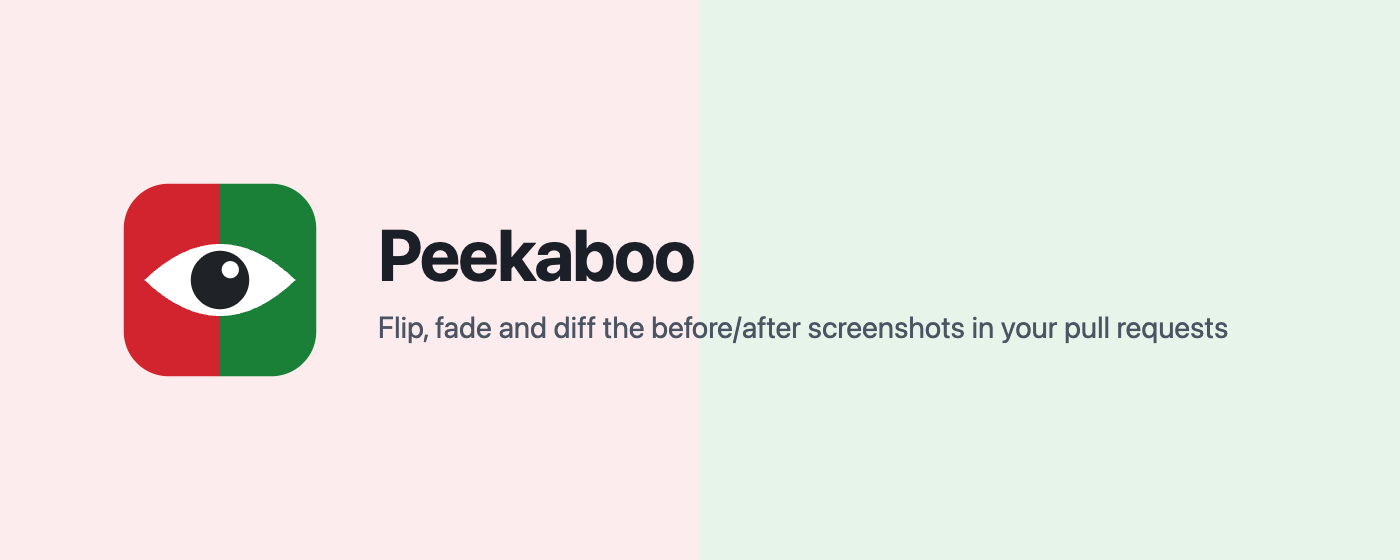
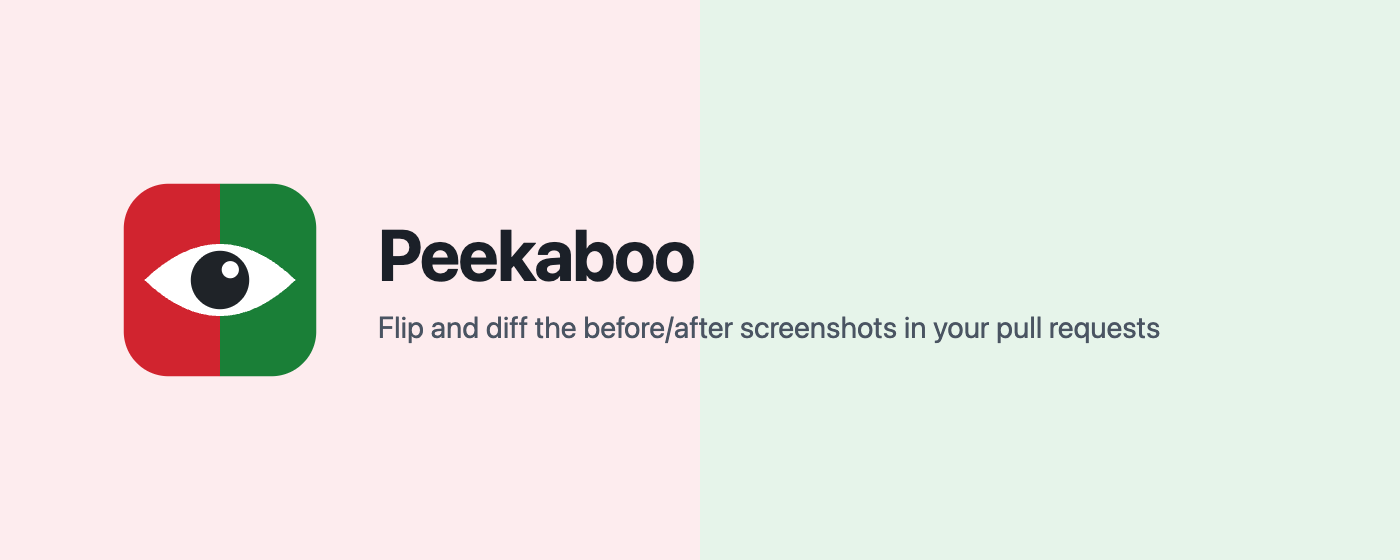
Drop Fade, fix Side by side on pages without a [hidden] reset, new demo
Fade was a slower Flip; with it gone there are two modes plus GitHub's own table,
and full-screen keys are 1-2. Videos, which Diff can't compare, now stay in Flip.

Side by side relied on GitHub's global [hidden] { display: none !important } to hide
the comparison view; our own display: flex beat the attribute anywhere that reset
is missing, so both the view and the table showed. Scope the reset to our widget.

The demo now starts on GitHub's side-by-side table, clicks Flip with a visible
cursor, flips a few times and ends on Diff, recorded frame by frame at 2x so it stays
readable when scaled down on a phone. Also types cloneMedia's diff-part side, which
strict tsc rejected. Version 1.2.0.

Changed region(s): [[0.3071, 0.5464, 0.8907, 0.6071]]

diff --git a/src/content.ts b/src/content.ts
@@ -6,14 +6,13 @@
 // Tables are found by header text:
 // | Before | After | (optionally with a label column such as | Viewport | Before | After |).
 
-type Mode = "table" | "flip" | "fade" | "diff";
+type Mode = "table" | "flip" | "diff";
 
 type Pair = { label: string; before: HTMLImageElement | HTMLVideoElement; after: HTMLImageElement | HTMLVideoElement };
 
 const MODES: { mode: Mode; label: string; hint: string }[] = [
   { mode: "table", label: "Side by side", hint: "GitHub's own table" },
   { mode: "flip", label: "Flip", hint: "Click or press Space to blink between before and after" },
-  { mode: "fade", label: "Fade", hint: "Cross-fade: drag the range, or ← → when focused" },
   { mode: "diff", label: "Diff", hint: "Unchanged pixels fade out; red was darker before, green is darker after" },
 ];
 const DEFAULT_MODE: Mode = "flip";
@@ -44,7 +43,7 @@ function main() {
   };
   // GitHub re-renders comment bodies on navigation, edits and previews, so we re-scan on DOM changes.
   new MutationObserver(scheduleSync).observe(document.body, { childList: true, subtree: true });
-  // Capture phase, so ← → step between pairs before a focused Fade frame nudges its blend.
+  // Capture phase, so full-screen keys win over anything focused on the page.
   document.addEventListener("keydown", handleViewerKeys, true);
   scheduleSync();
 }
@@ -153,14 +152,6 @@ function buildStage(pair: Pair) {
   frame.append(after, before, diff, beforeTag, afterTag);
   const canDiff = pair.before instanceof HTMLImageElement && pair.after instanceof HTMLImageElement;
 
-  const range = el("input", `${PREFIX}-range`);
-  range.type = "range";
-  range.min = "0";
-  range.max = "100";
-  range.setAttribute("aria-label", "Before ↔ After");
-
-  // On the image rather than under it, so Fade is the same height as the other modes.
-  frame.append(range);
   root.append(frame);
   if (pair.label) {
     const caption = el("figcaption", `${PREFIX}-label`);
@@ -170,16 +161,12 @@ function buildStage(pair: Pair) {
   setNaturalSize(frame, pair.after);
 
   let mode: Mode = DEFAULT_MODE;
-  // Position is "how much of Before shows": 0 = all After, 100 = all Before.
-  let position = 50;
   let showingBefore = true;
 
   function render() {
-    // Blend modes over video need every copy in step; a still-frame diff would mislead, so videos fade instead.
-    const shown = mode === "diff" && !canDiff ? "fade" : mode;
+    // Blend modes over video need every copy in step; a still-frame diff would mislead, so videos flip instead.
+    const shown = mode === "diff" && !canDiff ? "flip" : mode;
     frame.dataset.mode = shown;
-    range.value = String(position);
-    range.hidden = shown !== "fade";
     beforeTag.textContent = shown === "diff" ? "Before only" : "Before";
     afterTag.textContent = shown === "diff" ? "After only" : "After";
     // Both share one grid cell sized to the taller image, so a taller After would peek out below a flipped-in Before.
@@ -187,36 +174,23 @@ function buildStage(pair: Pair) {
     if (shown === "diff") {
       if (!diff.hasChildNodes()) diff.append(...buildDiffLayers(pair.before, pair.after));
       before.style.opacity = "0";
-    } else if (shown === "fade") {
-      before.style.opacity = String(position / 100);
     } else if (shown === "flip") {
       before.style.opacity = showingBefore ? "1" : "0";
       frame.dataset.showing = showingBefore ? "before" : "after";
     }
   }
 
-  function setPosition(next: number) {
-    position = Math.min(100, Math.max(0, next));
-    render();
-  }
-
-  frame.addEventListener("pointerdown", (event) => {
-    if (mode !== "flip" || event.target === range) return;
+  frame.addEventListener("pointerdown", () => {
+    if (frame.dataset.mode !== "flip") return;
     showingBefore = !showingBefore;
     render();
   });
   frame.addEventListener("keydown", (event) => {
-    if (mode === "flip" && (event.key === " " || event.key === "Enter")) {
-      event.preventDefault();
-      showingBefore = !showingBefore;
-      render();
-    } else if (mode === "fade" && (event.key === "ArrowLeft" || event.key === "ArrowRight")) {
-      event.preventDefault();
-      const step = event.shiftKey ? 1 : 5;
-      setPosition(position + (event.key === "ArrowRight" ? step : -step));
-    }
+    if (frame.dataset.mode !== "flip" || (event.key !== " " && event.key !== "Enter")) return;
+    event.preventDefault();
+    showingBefore = !showingBefore;
+    render();
   });
-  range.addEventListener("input", () => setPosition(Number(range.value)));
 
   return {
     root,
@@ -275,7 +249,7 @@ function ensureDiffFilters() {
 }
 
 // Both sides scale to the same width so screenshots taken at the same viewport line up pixel for pixel.
-function cloneMedia(source: HTMLImageElement | HTMLVideoElement, side: "before" | "after") {
+function cloneMedia(source: HTMLImageElement | HTMLVideoElement, side: "before" | "after" | "diff-part") {
   const media = source.cloneNode(true) as HTMLImageElement | HTMLVideoElement;
   media.removeAttribute("style");
   media.removeAttribute("width");
@@ -330,7 +304,7 @@ function buildPlayButton(stages: ReturnType<typeof buildStage>[]) {
 // ---------- Full screen ----------
 
 // One pair at a time, across every table on the page, so reviewing a PR with many pairs is ← → instead of
-// scrolling. The stage element itself moves into the overlay (keeping its Fade position and Flip side) and goes back to
+// scrolling. The stage element itself moves into the overlay (keeping its Flip side) and goes back to
 // a placeholder when you step away, so there's only ever one copy of each pair.
 const VIEWER_MODES = MODES.filter(({ mode }) => mode !== "table");
 
@@ -519,6 +493,8 @@ function injectStyles() {
   const style = document.createElement("style");
   style.textContent = `
 .${PREFIX} { margin-bottom: 8px; }
+/* Our display rules would otherwise beat the hidden attribute on pages without a global [hidden] reset. */
+.${PREFIX} [hidden] { display: none !important; }
 .${PREFIX}-toolbar { display: flex; flex-wrap: wrap; gap: 8px; align-items: center; margin-bottom: 8px; }
 .${PREFIX}-segmented { display: inline-flex; border: 1px solid var(--borderColor-default, #d1d9e0); border-radius: 6px; overflow: hidden; }
 .${PREFIX}-mode, .${PREFIX}-expand {
@@ -547,10 +523,6 @@ function injectStyles() {
 .${PREFIX}-frame[data-mode="flip"] .${PREFIX}-tag { left: 8px; right: auto; }
 .${PREFIX}-frame[data-mode="flip"][data-showing="before"] .${PREFIX}-tag-after,
 .${PREFIX}-frame[data-mode="flip"][data-showing="after"] .${PREFIX}-tag-before { display: none; }
-.${PREFIX}-range {
-  position: absolute; left: 50%; bottom: 10px; transform: translateX(-50%); width: min(320px, calc(100% - 24px)); margin: 0;
-  padding: 4px 10px; border-radius: 999px; background: rgb(0 0 0 / 0.45); accent-color: #fff; cursor: pointer;
-}
 .${PREFIX}-diff, .${PREFIX}-diff-layer { grid-area: 1 / 1; display: grid; pointer-events: none; }
 .${PREFIX}-diff-layer { isolation: isolate; opacity: 0.8; }
 .${PREFIX}-diff-removed { filter: url(#${PREFIX}-removed); }

diff --git a/dist/content.js b/dist/content.js
@@ -3,7 +3,6 @@
   var MODES = [
     { mode: "table", label: "Side by side", hint: "GitHub's own table" },
     { mode: "flip", label: "Flip", hint: "Click or press Space to blink between before and after" },
-    { mode: "fade", label: "Fade", hint: "Cross-fade: drag the range, or \u2190 \u2192 when focused" },
     { mode: "diff", label: "Diff", hint: "Unchanged pixels fade out; red was darker before, green is darker after" }
   ];
   var DEFAULT_MODE = "flip";
@@ -112,12 +111,6 @@
     const diff = el("div", `${PREFIX}-diff`);
     frame.append(after, before, diff, beforeTag, afterTag);
     const canDiff = pair.before instanceof HTMLImageElement && pair.after instanceof HTMLImageElement;
-    const range = el("input", `${PREFIX}-range`);
-    range.type = "range";
-    range.min = "0";
-    range.max = "100";
-    range.setAttribute("aria-label", "Before \u2194 After");
-    frame.append(range);
     root.append(frame);
     if (pair.label) {
       const caption = el("figcaption", `${PREFIX}-label`);
@@ -126,47 +119,32 @@
     }
     setNaturalSize(frame, pair.after);
     let mode = DEFAULT_MODE;
-    let position = 50;
     let showingBefore = true;
     function render() {
-      const shown = mode === "diff" && !canDiff ? "fade" : mode;
+      const shown = mode === "diff" && !canDiff ? "flip" : mode;
       frame.dataset.mode = shown;
-      range.value = String(position);
-      range.hidden = shown !== "fade";
       beforeTag.textContent = shown === "diff" ? "Before only" : "Before";
       afterTag.textContent = shown === "diff" ? "After only" : "After";
       after.style.visibility = shown === "flip" && showingBefore ? "hidden" : "visible";
       if (shown === "diff") {
         if (!diff.hasChildNodes()) diff.append(...buildDiffLayers(pair.before, pair.after));
         before.style.opacity = "0";
-      } else if (shown === "fade") {
-        before.style.opacity = String(position / 100);
       } else if (shown === "flip") {
         before.style.opacity = showingBefore ? "1" : "0";
         frame.dataset.showing = showingBefore ? "before" : "after";
       }
     }
-    function setPosition(next) {
-      position = Math.min(100, Math.max(0, next));
-      render();
-    }
-    frame.addEventListener("pointerdown", (event) => {
-      if (mode !== "flip" || event.target === range) return;
+    frame.addEventListener("pointerdown", () => {
+      if (frame.dataset.mode !== "flip") return;
       showingBefore = !showingBefore;
       render();
     });
     frame.addEventListener("keydown", (event) => {
-      if (mode === "flip" && (event.key === " " || event.key === "Enter")) {
-        event.preventDefault();
-        showingBefore = !showingBefore;
-        render();
-      } else if (mode === "fade" && (event.key === "ArrowLeft" || event.key === "ArrowRight")) {
-        event.preventDefault();
-        const step = event.shiftKey ? 1 : 5;
-        setPosition(position + (event.key === "ArrowRight" ? step : -step));
-      }
+      if (frame.dataset.mode !== "flip" || event.key !== " " && event.key !== "Enter") return;
+      event.preventDefault();
+      showingBefore = !showingBefore;
+      render();
     });
-    range.addEventListener("input", () => setPosition(Number(range.value)));
     return {
       root,
       videos: [before, after].filter((media) => media instanceof HTMLVideoElement),
@@ -401,6 +379,8 @@
     const style = document.createElement("style");
     style.textContent = `
 .${PREFIX} { margin-bottom: 8px; }
+/* Our display rules would otherwise beat the hidden attribute on pages without a global [hidden] reset. */
+.${PREFIX} [hidden] { display: none !important; }
 .${PREFIX}-toolbar { display: flex; flex-wrap: wrap; gap: 8px; align-items: center; margin-bottom: 8px; }
 .${PREFIX}-segmented { display: inline-flex; border: 1px solid var(--borderColor-default, #d1d9e0); border-radius: 6px; overflow: hidden; }
 .${PREFIX}-mode, .${PREFIX}-expand {
@@ -429,10 +409,6 @@
 .${PREFIX}-frame[data-mode="flip"] .${PREFIX}-tag { left: 8px; right: auto; }
 .${PREFIX}-frame[data-mode="flip"][data-showing="before"] .${PREFIX}-tag-after,
 .${PREFIX}-frame[data-mode="flip"][data-showing="after"] .${PREFIX}-tag-before { display: none; }
-.${PREFIX}-range {
-  position: absolute; left: 50%; bottom: 10px; transform: translateX(-50%); width: min(320px, calc(100% - 24px)); margin: 0;
-  padding: 4px 10px; border-radius: 999px; background: rgb(0 0 0 / 0.45); accent-color: #fff; cursor: pointer;
-}
 .${PREFIX}-diff, .${PREFIX}-diff-layer { grid-area: 1 / 1; display: grid; pointer-events: none; }
 .${PREFIX}-diff-layer { isolation: isolate; opacity: 0.8; }
 .${PREFIX}-diff-removed { filter: url(#${PREFIX}-removed); }

diff --git a/store/listing.md b/store/listing.md
@@ -9,7 +9,7 @@ Paste these into the Developer Dashboard (https://chrome.google.com/webstore/dev
 Other extensions are already called just "Peekaboo" (a tab switcher, screen-sharing privacy tools), so the store name carries what it is for.
 
 **Summary** (from manifest description, ≤132 chars):
-Flip, fade or pixel-diff the Before/After screenshots in GitHub pull requests and issues, with a full-screen review mode.
+Flip or pixel-diff the Before/After screenshots in GitHub pull requests and issues, with a full-screen review mode.
 
 **Category**: Developer Tools · **Language**: English
 
@@ -18,9 +18,8 @@ Flip, fade or pixel-diff the Before/After screenshots in GitHub pull requests an
 Review frontend pull requests faster. When a PR or issue on GitHub has a Before | After screenshot table, this extension stacks each pair at the same scale and lets you peek between them so you can see exactly what changed instead of comparing two thumbnails side by side.
 
 • Flip (default): click or press Space to blink between them; anything that changed jumps
-• Fade: cross-fade one into the other, for subtle colour and shadow changes
 • Diff: only changed pixels light up, red where the old version had something, green where the new one does
-• Full screen: one pair at a time, arrow keys step through every pair in the PR, 1–3 switch modes
+• Full screen: one pair at a time, arrow keys step through every pair in the PR, 1–2 switch modes
 • Side by side: GitHub's original table, untouched
 
 Your chosen mode sticks across PRs. Screen recordings get a Play button that starts both videos together.
@@ -31,7 +30,7 @@ No extra permissions, no network requests, no tracking. Open source (MIT): https
 
 **Graphics** (all in this folder):
 - Icon: `../icons/icon-128.png`
-- Screenshots (1280×800): `store-1-flip.png`, `store-2-diff.png`, `store-3-fade.png`, `store-4-fullscreen.png`
+- Screenshots (1280×800): `store-1-flip.png`, `store-2-diff.png`, `store-3-fullscreen.png`
 - Small promo tile (440×280): `promo-small-440x280.png`
 - Marquee (1400×560, optional): `promo-marquee-1400x560.png`
 
@@ -40,7 +39,7 @@ No extra permissions, no network requests, no tracking. Open source (MIT): https
 
 ## Privacy practices
 
-**Single purpose**: Displays the Before/After screenshot tables in GitHub pull requests and issues as an interactive comparison (flip, fade, diff).
+**Single purpose**: Displays the Before/After screenshot tables in GitHub pull requests and issues as an interactive comparison (flip, diff).
 
 **Permission justification**
 - Host access to https://github.com/* (content script): the extension only works on GitHub pull request and issue pages, where it finds Before/After screenshot tables and renders the comparison next to them. It requests no other permissions.

diff --git a/README.md b/README.md
@@ -4,21 +4,20 @@
 
 <h1 align="center">Peekaboo</h1>
 
-<p align="center">Flip, fade or diff the Before/After screenshots in GitHub pull requests.</p>
+<p align="center">Flip or diff the Before/After screenshots in GitHub pull requests.</p>
 
 A Chrome extension for reviewing frontend pull requests. It turns the `| Before | After |` screenshot
-tables in GitHub PRs and issues into one image you can **flip**, **fade** or **diff**, instead of squinting
+tables in GitHub PRs and issues into one image you can **flip** or **diff**, instead of squinting
 at two thumbnails side by side.
 
-![Flipping between two versions of an invoices page, fading between them, then Diff showing a removed nav link in red and restyled status pills in green](docs/demo.gif)
+![Starting from GitHub's side-by-side table, clicking Flip, flipping between two versions of an invoices page, then Diff showing a removed nav link in red and restyled status pills in green](docs/demo.gif)
 
 ## What it does
 
 - **Flip** (default): click or press Space to blink between before and after. Anything that changed jumps.
-- **Fade**: cross-fade one into the other, for subtle colour and shadow changes.
 - **Diff**: only changed pixels light up, red where Before had something, green where After does.
 - **Side by side**: GitHub's own table, which is never modified, only hidden.
-- **Full screen**: one pair at a time, ← → through every pair in the PR, 1–3 to switch modes, Esc to close.
+- **Full screen**: one pair at a time, ← → through every pair in the PR, 1–2 to switch modes, Esc to close.
 
 Your chosen mode sticks across tables and PRs. Recordings (videos) get a Play button that starts both in
 step.
